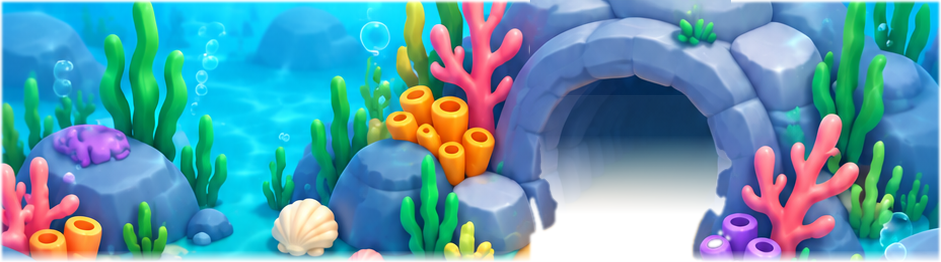
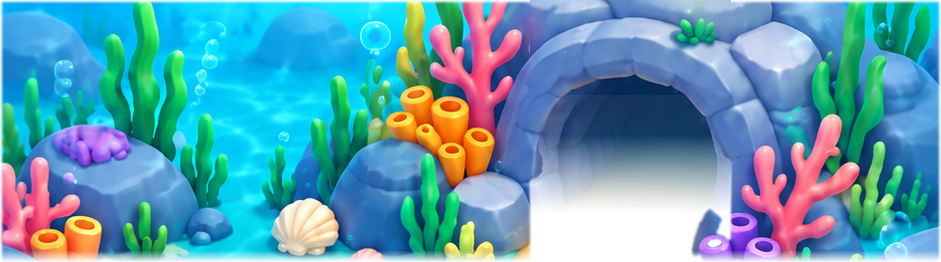
feat: new sand background, board drawn on the sand, heading cues off
SeaBackdrop.png is the client's new background (one sand area, no painted board). BoardMask.png is removed, so the board top is drawn in full: checker, light rim and a soft crease and shadow on the sand. Fixed the shadow falloff (Mathf.SmoothStep interpolates between its arguments, it is not GLSL smoothstep), which had turned the shadow into a flat orange band. CaveFront.png rebuilt from the new background (tools/cave_front.py). Idle nudge and teardrop shadow are switched off for now (FishActor.HeadingCues). Tests: EditMode 52/52.

diff --git a/Assets/FishOut/Runtime/PaintedBackdrop.cs b/Assets/FishOut/Runtime/PaintedBackdrop.cs
@@ -340,7 +340,7 @@ namespace FishOut
         private const float TopMargin = 1f;                    // cells of shadow room around the cell rect
         // Matched to the painted board's own edge: a narrow dark crease on the road at the board's foot, a soft
         // shade around it, and a rounded lighter rim on the board side (all in cells).
-        private const float Crease = .09f, ShadowReach = .26f, ShadowDrop = .04f, Lip = .02f, RimAt = .07f, RimWidth = .05f;
+        private const float Crease = .07f, ShadowReach = .24f, ShadowDrop = .05f, Lip = .02f, RimAt = .07f, RimWidth = .05f;
         private static Texture2D topTexture; private static string topKey;
         private static void Release(Object asset)
         {
@@ -382,6 +382,8 @@ namespace FishOut
             }
             return best;
         }
+        // GLSL-style smoothstep (Mathf.SmoothStep interpolates between its first two arguments instead).
+        private static float Smooth(float edge0, float edge1, float x) { float t = Mathf.Clamp01((x - edge0) / (edge1 - edge0)); return t * t * (3 - 2 * t); }
         private static float Hash(int x, int y) { unchecked { uint h = (uint)(x * 374761393 + y * 668265263); h = (h ^ (h >> 13)) * 1274126177u; return (h ^ (h >> 16)) / 4294967295f; } }
         private static float Noise(Vector2 p)
         {
@@ -442,7 +444,7 @@ namespace FishOut
                 if (d > -texel)
                 {
                     float drop = OutlineDistance(outline, normals, g + new Vector2(0, ShadowDrop), out _);
-                    outside.a = Mathf.Max(.55f * (1 - Mathf.SmoothStep(0, Crease, Mathf.Max(0, d))), .16f * (1 - Mathf.SmoothStep(0, ShadowReach, Mathf.Max(0, drop))));
+                    outside.a = Mathf.Max(.5f * (1 - Smooth(0, Crease, d)), .14f * (1 - Smooth(0, ShadowReach, drop)));
                 }
                 Color top = default; float cover = Mathf.Clamp01(-d / texel + .5f);
                 if (cover > 0 && !cal.checker)

diff --git a/Assets/FishOut/Runtime/FishActor.cs b/Assets/FishOut/Runtime/FishActor.cs
@@ -13,6 +13,8 @@ namespace FishOut
         // Idle "nudge": every couple of seconds the fish twitches towards the way it faces, so its heading reads
         // even from behind. Each fish has its own rhythm so the school never pulses in step.
         private const float NudgeAmount=.11f,NudgeLength=.34f,NudgeTilt=9f;
+        // Heading cues (idle nudge + teardrop shadow) are switched off for now at the designer's request (07/11).
+        public static bool HeadingCues=false;
         private float nudgePeriod,nudgePhase;
         private float popLeft,popLength,popSize;
         public void Configure(int id, Transform visual, Material glow)
@@ -46,7 +48,7 @@ namespace FishOut
             if(Visual)
             {
                 float lunge=0;
-                if(Mover&&!Mover.IsMoving)
+                if(HeadingCues&&Mover&&!Mover.IsMoving)
                 {
                     float t=Mathf.Repeat(Time.time+nudgePhase,nudgePeriod);
                     if(t<NudgeLength){float k=t/NudgeLength;lunge=Mathf.Sin(k*Mathf.PI)*(1-.35f*k);}

diff --git a/Assets/FishOut/Runtime/FishBatcher.cs b/Assets/FishOut/Runtime/FishBatcher.cs
@@ -46,6 +46,11 @@ namespace FishOut
         private static Matrix4x4 ShadowMatrix(Transform owner)
         {
             float size=ShadowSize*owner.lossyScale.x;
+            if(!FishActor.HeadingCues)
+            {
+                var flat=owner.position;flat.y=ShadowHeight;
+                return Matrix4x4.TRS(flat,Quaternion.Euler(90,0,0),Vector3.one*size);
+            }
             var forward=owner.forward;forward.y=0;if(forward.sqrMagnitude<1e-6f)forward=Vector3.forward;forward.Normalize();
             var position=owner.position-forward*(ShadowBack*size);position.y=ShadowHeight;
             return Matrix4x4.TRS(position,Quaternion.LookRotation(forward)*Quaternion.Euler(90,0,0),new Vector3(size,size*ShadowLength,1));

diff --git a/Assets/FishOut/Runtime/ShowcaseScenery.cs b/Assets/FishOut/Runtime/ShowcaseScenery.cs
@@ -156,7 +156,8 @@ namespace FishOut
             {
                 var p=new Vector2((x+.5f)/size-.5f,(y+.5f)/size-.5f);
                 float d;
-                if(p.y>=head)d=Vector2.Distance(p,new Vector2(0,head))-radius;
+                if(!FishActor.HeadingCues)d=(p.magnitude*2f-.65f)*soft;   // the old soft round shadow while the heading cues are off
+                else if(p.y>=head)d=Vector2.Distance(p,new Vector2(0,head))-radius;
                 else{float k=Mathf.Clamp01((p.y-tail)/(head-tail));d=Mathf.Max(Mathf.Abs(p.x)-radius*Mathf.Pow(k,.75f),tail-p.y);}
                 float alpha=Mathf.Clamp01(-d/soft+.35f);
                 pixels[y*size+x]=new Color32(92,58,24,(byte)(alpha*alpha*(3-2*alpha)*150));
